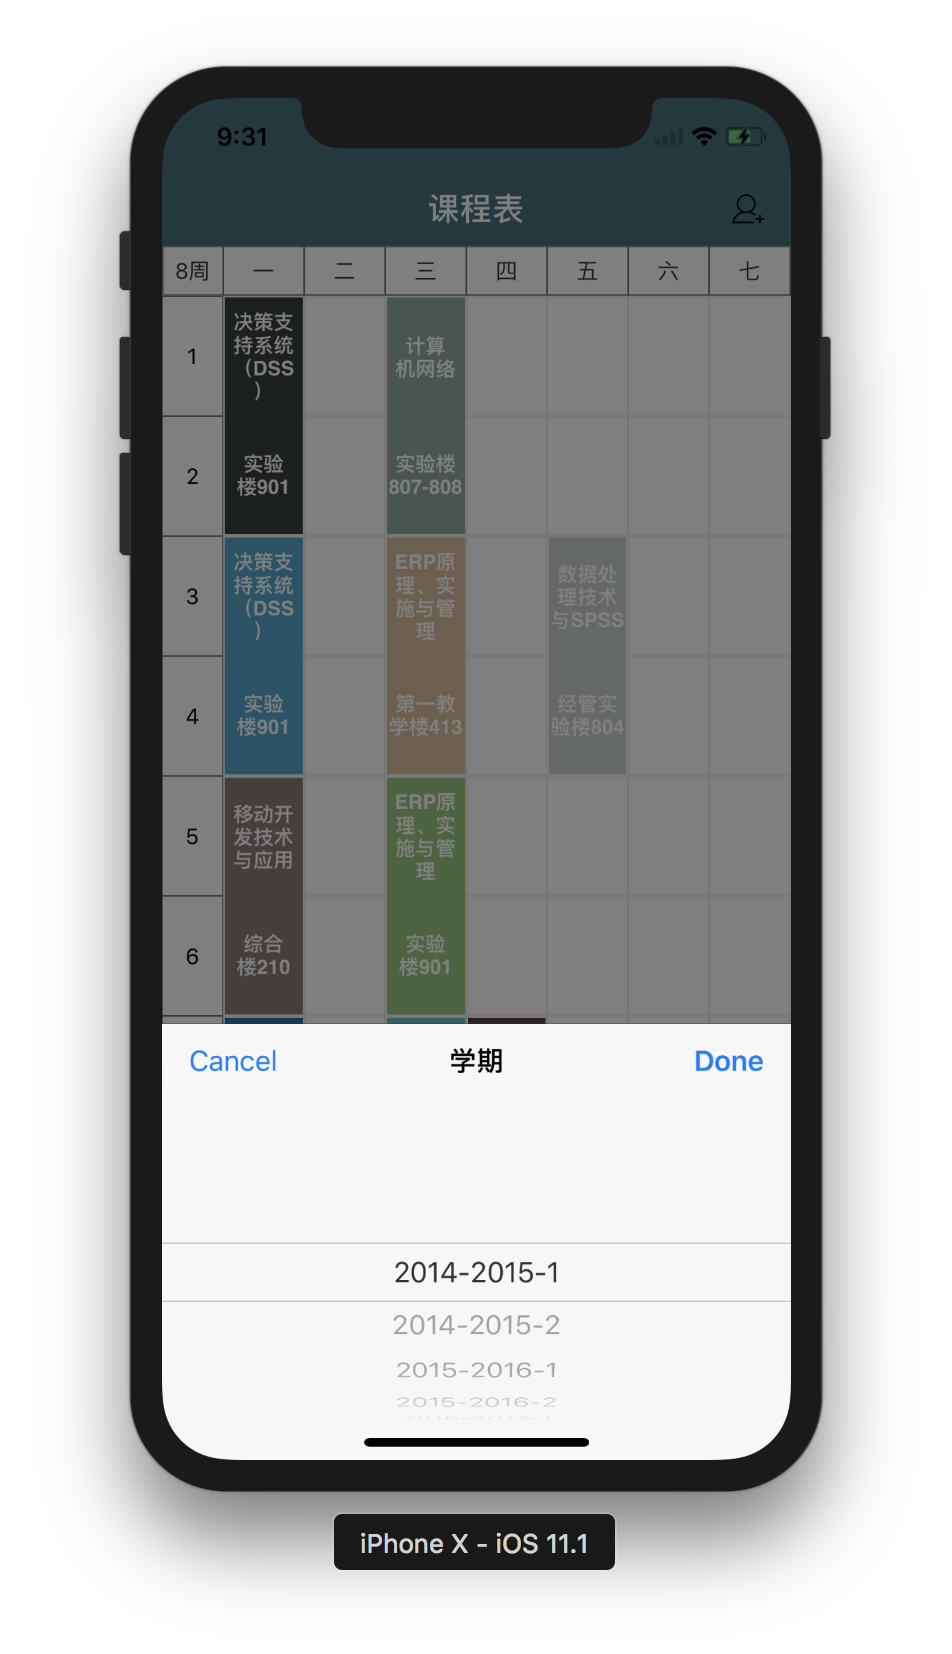
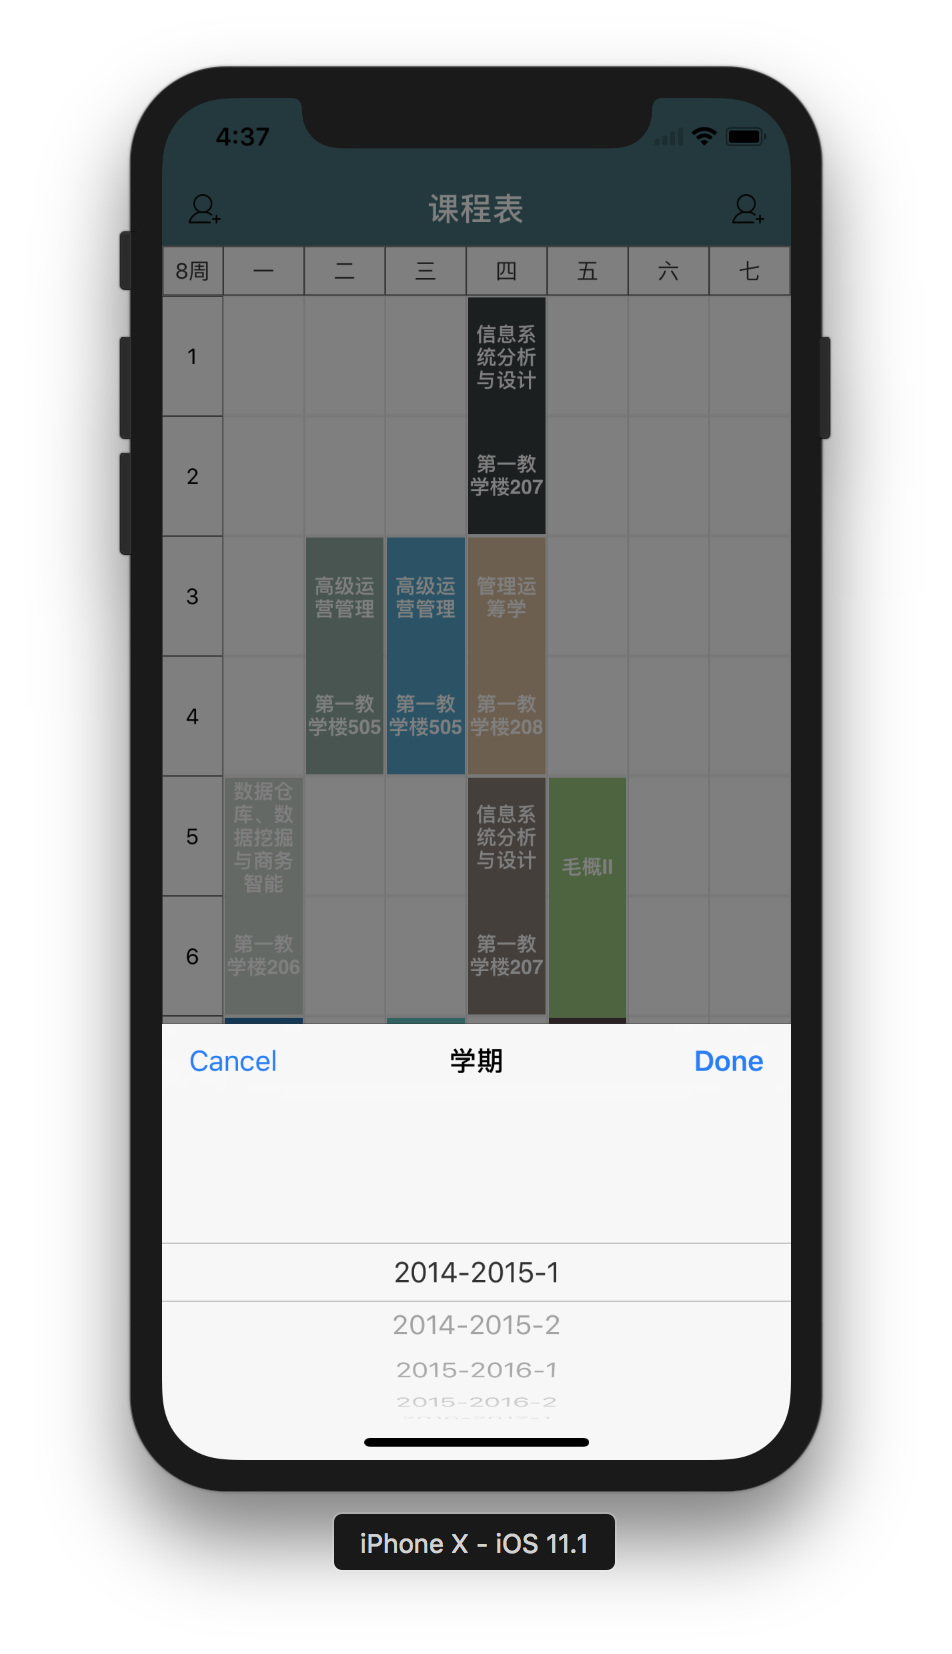
1.4.7

Changed region(s): [[0.2132, 0.1542, 0.6702, 0.6167], [0.7616, 0.0617, 0.792, 0.0925]]

diff --git a/KWGdufe/Classes/MyClass/Control/KWMyClassViewController.m b/KWGdufe/Classes/MyClass/Control/KWMyClassViewController.m
@@ -74,7 +74,9 @@
     addWidthWeek= (KWSCreenW-30)/7.0;
     
     //获取高度
-    addHeight = (KWSCreenH-rectStatus.size.height-rectNav.size.height-30)/9.7;
+    addHeight = (KWSCreenH-rectStatus.size.height - rectNav.size.height - 30)/9.7;
+    NSLog(@"KWSCreenH = %f",KWSCreenH);
+    NSLog(@"addHeight = %f",addHeight);
     
     //设置星期一到星期日和第几周
     [self setWeekAndDays];
@@ -82,7 +84,7 @@
     //自定义流水布局——用于展示课表位置和大小
     self.course = [[KWCollectionViewLayout alloc] init];;
     self.course.width = addWidth;
-    _course.height = (KWSCreenH-rectStatus.size.height-rectNav.size.height-30)/9.7;
+    _course.height = (KWSCreenH - rectStatus.size.height - rectNav.size.height - 30)/9.7;
     
     //缓存获取界面数据
     NSString *account = [wrapper myObjectForKey:(id)kSecAttrAccount];
@@ -159,16 +161,25 @@
     CGRect rectStatus = [[UIApplication sharedApplication] statusBarFrame];
     CGRect rectNav = self.navigationController.navigationBar.frame;
     //创建collectionView视图，应用自定义的collectionViewLayout：_course
-    collectionView = [[UICollectionView alloc] initWithFrame:CGRectMake(0, rectStatus.size.height+rectNav.size.height+30, KWSCreenW,KWSCreenH) collectionViewLayout:_course];
+    
+    //适配iPhone X
+    CGFloat myHeight;
+    if (KWSCreenH == 812.0000) {
+        myHeight = KWSCreenH - 22;
+    } else {
+        myHeight = KWSCreenH;
+    }
+    collectionView = [[UICollectionView alloc] initWithFrame:CGRectMake(0, rectStatus.size.height+rectNav.size.height+30, KWSCreenW,myHeight) collectionViewLayout:_course];
 //    bgHeight = CGRectGetHeight([UIScreen mainScreen].bounds)/12;//设置背景格子的高度
     collectionView.dataSource = self;
     collectionView.delegate = self;
     collectionView.backgroundColor = [UIColor clearColor];
     collectionView.bounces = NO;//取消弹回
     collectionView.showsVerticalScrollIndicator = NO;//隐藏滚动条
+//    collectionView.backgroundColor = [UIColor blueColor];
     
     //设置格子背景
-    UIImageView *bg = [[UIImageView alloc]initWithFrame:CGRectMake(0, 0, CGRectGetWidth([UIScreen mainScreen].bounds),12*addHeight)];
+    UIImageView *bg = [[UIImageView alloc]initWithFrame:CGRectMake(0, 0, KWSCreenW,12*addHeight)];
     bgView = bg;
     bgView.backgroundColor = [UIColor clearColor];
     bgView.alpha = 0.5;

diff --git a/KWGdufe/Classes/Main/Control/KWTabBarController.m b/KWGdufe/Classes/Main/Control/KWTabBarController.m
@@ -71,11 +71,6 @@
     
 }
 
-- (void)didReceiveMemoryWarning {
-    [super didReceiveMemoryWarning];
-    // Dispose of any resources that can be recreated.
-}
-
 - (void)setupAllChildViewController
 {
     KWMyClassViewController *mcVc = [[KWMyClassViewController alloc]init];

diff --git a/KWGdufe/Classes/Main/View/KWTabBar.m b/KWGdufe/Classes/Main/View/KWTabBar.m
@@ -33,6 +33,9 @@
     int i = 0;
     CGFloat btnW = self.KW_width / count;
     CGFloat btnH = self.KW_height;
+    if (btnH == 83.00) {
+        btnH = btnH - 17;
+    }
     CGFloat x = 0;
     //跳转tabBar按钮位置
     //遍历子控件 调整布局

diff --git a/README.md b/README.md
@@ -4,8 +4,8 @@
 
 *项目进度：*
 （任务：继续增加新功能和优化已完成的功能）
-2017.11.4：**增加自动计算当前学期和计算大一到大四的八个学期的方法,已经增加选择各个学期课程表功能**
-2017.11.5: **增加，选择查看课程表，当前周或其他周所对应的课程**
+2017.11.4：**1.增加自动计算当前学期和计算大一到大四的八个学期的方法 2.已经增加选择各个学期课程表功能**
+2017.11.5: **1.增加，选择查看课程表，当前周或其他周所对应的课程 2.以简单适配iPhone X**
 
 做了简单的本地缓存处理，应用NSUserDefaults存储请求的课表数据等数据。
 
